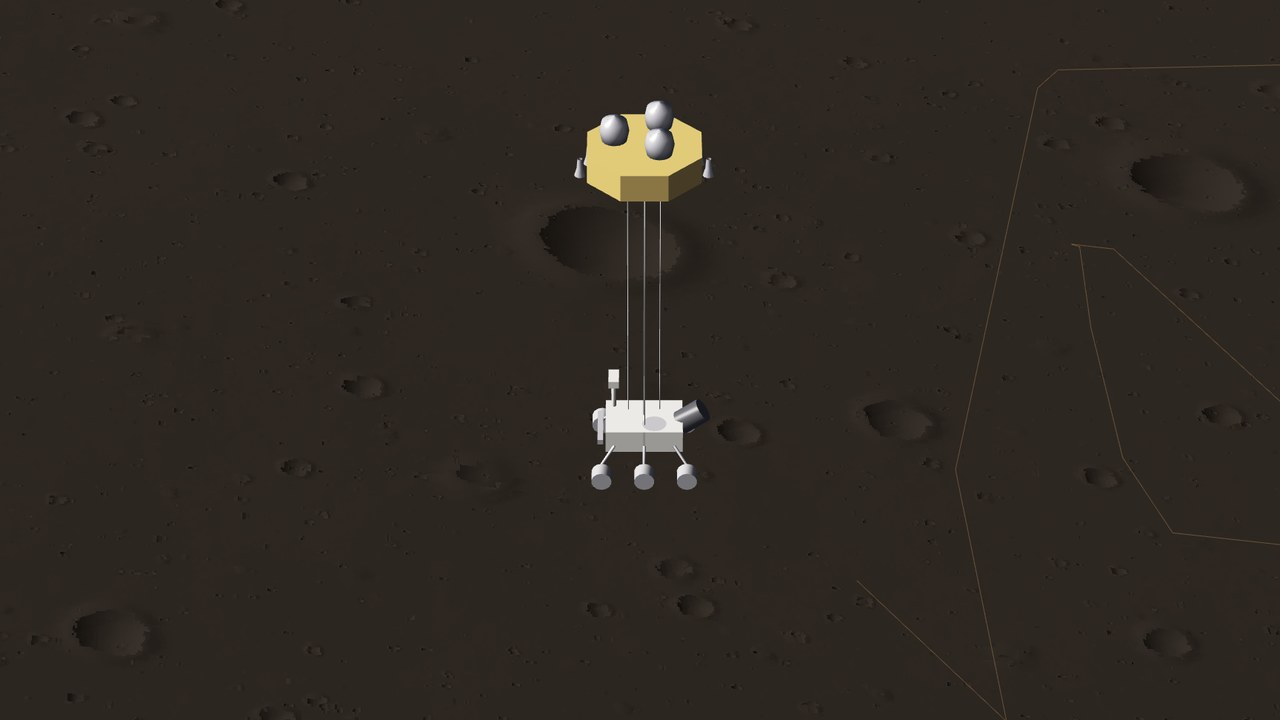
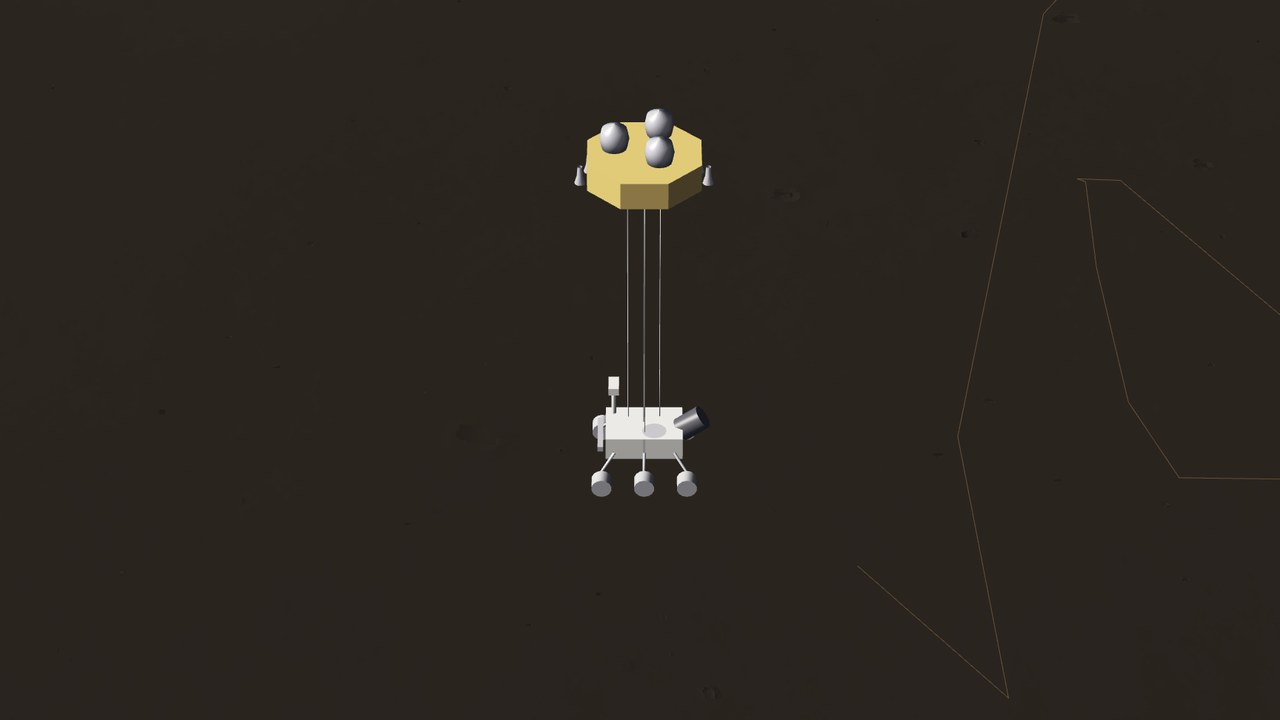
Retake the Mars terrain and Perseverance sky crane screenshots for the new cliffs and craters

Changed region(s): [[0.4375, 0.5194, 0.5625, 0.7028], [0.4375, 0.1222, 0.5625, 0.3056]]

diff --git a/tools/retake_gallery.py b/tools/retake_gallery.py
@@ -57,9 +57,10 @@ SHOTS = {
     "earth_mountains": (lambda: ["--frames", "240", *COCKPIT, "--share",
                                  at("Earth", 6378.137, 27.80, 86.95, earth_alt(27.80, 7.0), 0, 5, 9816.58)], None),
     "apollo15_landing": (lambda: ["--frames", "600", "--photo", "2", "--share", "?apollo=15&scene=12"], None),
-    # スカイクレーン: 着地の 8.5 秒前のパーシビアランス（中心から 3391.6015 km）の南 69 m・上 50 m から北へ 36° 見下ろす
+    # スカイクレーン: 着地の 8.5 秒前のパーシビアランス（中心から 3391.6015 km）の南 69 m・上 55.5 m から北へ 36° 見下ろす
+    # （着陸機は地形の上に降ろすので、地表の高さが変わると合わせ直す）
     "perseverance_skycrane": (lambda: ["--frames", "200", "--zoom", "12", "--dpi", "2", *COCKPIT, "--share",
-                                       at("Mars", 3391.6015, 18.444626 - math.degrees(0.069 / 3391.6015), 77.450789, 0.050, 0, -36,
+                                       at("Mars", 3391.6015, 18.444626 - math.degrees(0.069 / 3391.6015), 77.450789, 0.0555, 0, -36,
                                           "%.8f" % (7719.36375947 - 8.5 / 86400)) + "&tg=Perseverance"], "half"),
     "spirit_airbags": (lambda: ["--frames", "200", "--zoom", "16", "--dpi", "2", *COCKPIT, "--share",
                                 at("Mars", 3392.30, -14.5747, 175.4785, 0.15, 359.2, 46, "%.8f" % (1463.68439725 - 3 / 86400))

diff --git a/README.md b/README.md
@@ -32,7 +32,7 @@
 
 | | |
 |---|---|
-| ![マリネリス峡谷の見える火星](docs/screenshots/mars_map.jpg) Viking の地図と MOLA の標高による火星（中央にマリネリス峡谷） | ![マリネリス峡谷の中](docs/screenshots/mars_terrain.jpg) マリネリス峡谷の中を低空から東へ（MOLA の標高を実際の高さで立体に） |
+| ![マリネリス峡谷の見える火星](docs/screenshots/mars_map.jpg) Viking の地図と MOLA の標高による火星（中央にマリネリス峡谷） | ![マリネリス峡谷の中](docs/screenshots/mars_terrain.jpg) マリネリス峡谷の中を低空から東へ（MOLA と HRSC の合成標高を実際の高さで立体に。崖の地層の段と尾根・溝は手続き） |
 | ![火星の昼の空](docs/screenshots/mars_sky.jpg) 火星の黄褐色の昼の空 | ![大赤斑の見える木星](docs/screenshots/jupiter_map.jpg) Cassini の地図による木星（右下に大赤斑） |
 | ![シューメーカー・レビー第 9 彗星の衝突痕](docs/screenshots/shoemaker_levy9.jpg) 1994 年 7 月 18 日、シューメーカー・レビー第 9 彗星の破片が残した木星の衝突痕 | ![イオ](docs/screenshots/io.jpg) Galileo / Voyager の地図によるイオ |
 | ![土星と環](docs/screenshots/saturn.jpg) 土星と環（本体に落ちる環の影） | ![Voyager の観測による土星の環](docs/screenshots/saturn_rings.jpg) Voyager 2 の観測による濃淡の土星の環 |

diff --git a/README.en.md b/README.en.md
@@ -32,7 +32,7 @@ Body positions are computed from the PC clock (UTC); at 1x time scale they orbit
 
 | | |
 |---|---|
-| ![Mars with Valles Marineris](docs/screenshots/mars_map.jpg) Mars from Viking maps and MOLA elevations (Valles Marineris in the middle) | ![Inside Valles Marineris](docs/screenshots/mars_terrain.jpg) Looking east inside Valles Marineris from low altitude (MOLA elevations as true-height relief) |
+| ![Mars with Valles Marineris](docs/screenshots/mars_map.jpg) Mars from Viking maps and MOLA elevations (Valles Marineris in the middle) | ![Inside Valles Marineris](docs/screenshots/mars_terrain.jpg) Looking east inside Valles Marineris from low altitude (blended MOLA and HRSC elevations as true-height relief; the layered steps, ridges and gullies of the cliffs are procedural) |
 | ![Daytime sky on Mars](docs/screenshots/mars_sky.jpg) The butterscotch daytime sky of Mars | ![Jupiter with the Great Red Spot](docs/screenshots/jupiter_map.jpg) Jupiter from Cassini maps (Great Red Spot at lower right) |
 | ![Shoemaker-Levy 9 scars](docs/screenshots/shoemaker_levy9.jpg) 18 July 1994: scars left on Jupiter by fragments of Comet Shoemaker-Levy 9 | ![Io](docs/screenshots/io.jpg) Io from Galileo / Voyager maps |
 | ![Saturn and its rings](docs/screenshots/saturn.jpg) Saturn and its rings (with the rings' shadow on the planet) | ![Saturn's rings from Voyager data](docs/screenshots/saturn_rings.jpg) Saturn's rings with the density measured by Voyager 2 |
